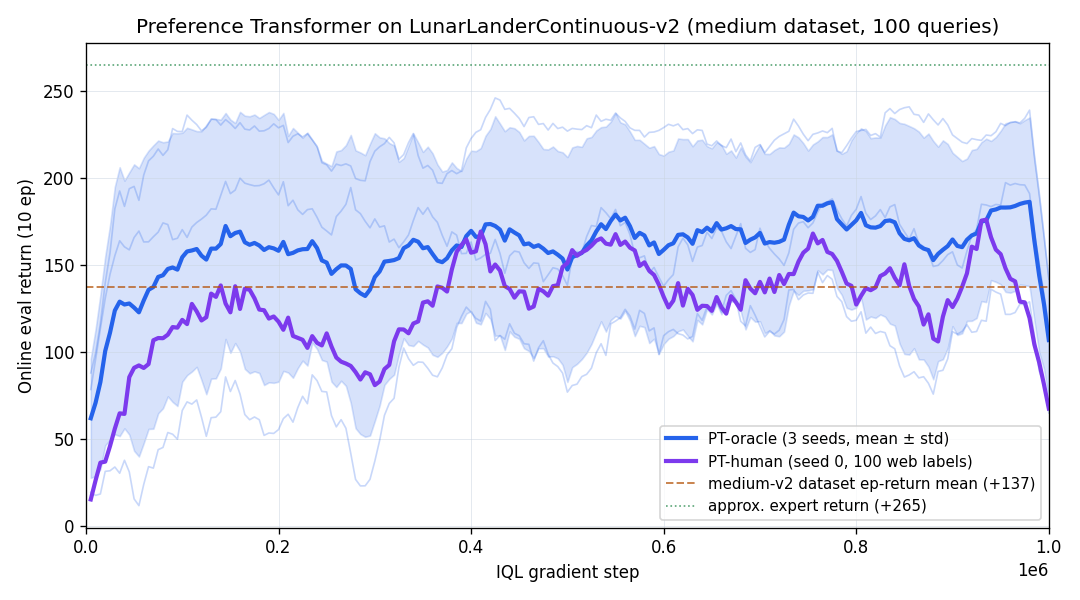
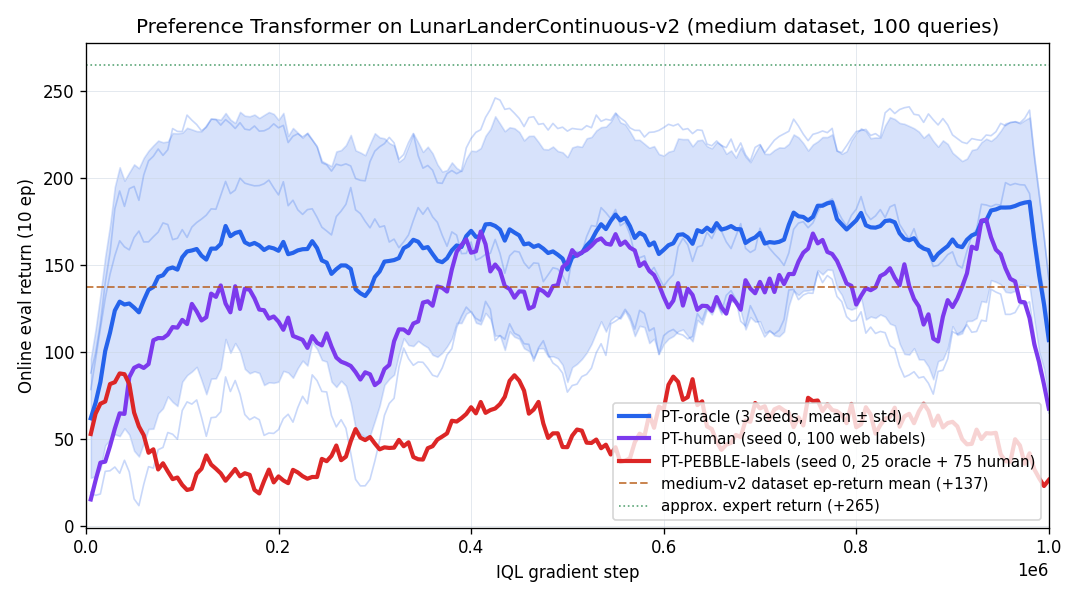
runs C: PT-pipeline trained on PEBBLE's 100 preference labels
scripts/preference/build_pebble_pt_dataset.py
- Extract the 100 (seg1, seg2, label) tuples from
  $SCRATCH/compare_runs/pebble/lunarlander_web_full/4895573/seed_12345/pebble/
  checkpoint.pt's reward.pref_buffer (needs omegaconf<2 to read).
- First 25 entries are oracle teacher, next 75 are human web labels
  (verified by cross-check vs online_queries/batch_*/response.pkl).
- Convert label convention 0.0/1.0 -> 0/1 (PT), -1 reserved for ties
  (no ties in this run).
- Pack 200 segments as length-51 trajectories in a synthetic D4RL-schema
  HDF5 (length-51 so PT's `assert max(trj_len) > query_len` passes for
  query_len=50). Write indices_num100_q50, indices_2_num100_q50,
  label_human into human_label/lunarlander-pebble100-s0/.
- Provenance JSON written next to the HDF5 (NOT inside human_label/
  because PT's loader hard-codes sorted-os.listdir-into-3 destructuring).

scripts/run_pt_pipeline_pebble_labels.sh
- Stage 1: PT reward training on the synthetic HDF5, --query_len=50
  (matches PEBBLE), --use_human_label=True, --n_epochs=2000.
- Stage 2: train_offline.py with PT relabel on the lunar-lander
  medium-v2-s0 1M HDF5 (option C — matches Runs A/B for plotting,
  with distribution-shift caveat acknowledged).
- Job 4926901 COMPLETED in 52:07.

human_label/lunarlander-pebble100-s0/
- Materialised label triple (100 labels: 46 A-pref, 54 B-pref, 0 ties).

scripts/plot_runs_a_vs_b.py + figures/pt_iql_lunarlander_medium_v2.png
- Extended to overlay Run C against Runs A/B.
[…]

diff --git a/scripts/preference/build_pebble_pt_dataset.py b/scripts/preference/build_pebble_pt_dataset.py
@@ -1,0 +1,191 @@
+"""Convert the 100 (25 oracle + 75 human) PEBBLE labels stored in a BPref3
+checkpoint into the file layout the PT pipeline already understands —
+no PT-side code changes.
+
+Inputs:
+    The PEBBLE checkpoint at
+      `<pebble_run>/seed_<S>/pebble/checkpoint.pt`
+    contains a `reward.pref_buffer` dict with:
+        seg1, seg2  float32 (BUFFER, 50, 10)   = obs(8) + action(2), padded
+        label       float32 (BUFFER, 1)        in {0.0=A pref, 1.0=B pref}
+        len1, len2  int32   (BUFFER,)          true segment length (always 50 here)
+        index       int                        # of populated entries
+
+Outputs (per seed):
+    <output_root>/<env_tag>.hdf5     A synthetic D4RL-schema dataset where each
+                                      saved segment occupies a contiguous 51-step
+                                      span (50 real steps + 1 dummy terminal so
+                                      PT's assert max(trj_len) > query_len passes).
+    human_label/<env_tag>/
+        indices_num100_q50           pickled np.int32 (100,)  start of seg-A
+        indices_2_num100_q50         pickled np.int32 (100,)  start of seg-B
+        label_human                  pickled list[int] in {0,1,-1}  PT convention
+        provenance.json              source = "oracle" for first 25, "human" for rest
+
+PT's `load_queries_with_indices` already handles this exact layout (it slices
+`dataset[start:start+query_len]` for each pair), so the only flags we change
+in `new_preference_reward_main.py` invocation are `--query_len=50` and
+`--num_query=100`.
+"""
+
+from __future__ import annotations
+
+import argparse
+import json
+import os
+import pickle
+from pathlib import Path
+
+import h5py
+import numpy as np
+
+
+def parse_args() -> argparse.Namespace:
+    p = argparse.ArgumentParser(description=__doc__, formatter_class=argparse.RawDescriptionHelpFormatter)
+    p.add_argument("--pebble_checkpoint", required=True, type=Path,
+                   help="Path to BPref3 PEBBLE checkpoint.pt")
+    p.add_argument("--n_pairs", type=int, default=100)
+    p.add_argument("--n_oracle", type=int, default=25,
+                   help="First N pairs are tagged oracle in provenance.json")
+    p.add_argument("--query_len", type=int, default=50)
+    p.add_argument("--env_tag", default="lunarlander-pebble100-s0",
+                   help="Used as both the synthetic-HDF5 basename and the "
+                        "human_label/<env_tag>/ subdir name.")
+    p.add_argument("--hdf5_out_dir", required=True, type=Path,
+                   help="Directory to write the synthetic HDF5 into.")
+    p.add_argument("--label_out_root", default=Path("human_label"), type=Path,
+                   help="Root for human_label/<env_tag>/.")
+    return p.parse_args()
+
+
+def load_pebble_pref_buffer(ckpt_path: Path, n: int):
+    """Return (seg1, seg2, label) sliced to the first `n` entries."""
+    import torch
+    ck = torch.load(ckpt_path, map_location="cpu", weights_only=False)
+    pb = ck["reward"]["pref_buffer"]
+    seg1 = np.asarray(pb["seg1"])[:n]
+    seg2 = np.asarray(pb["seg2"])[:n]
+    lbls = np.asarray(pb["label"])[:n].flatten()
+    return seg1, seg2, lbls
+
+
+def main() -> None:
+    args = parse_args()
+
+    seg1, seg2, raw_labels = load_pebble_pref_buffer(args.pebble_checkpoint, args.n_pairs)
+    assert seg1.shape == (args.n_pairs, args.query_len, 10), (
+        f"unexpected segment shape {seg1.shape}; expected ({args.n_pairs}, {args.query_len}, 10)"
+    )
+    obs_dim, act_dim = 8, 2
+
+    # ---- 1. Label-convention conversion --------------------------------------
+    # PEBBLE: 0.0 = A preferred, 1.0 = B preferred (no ties in this run).
+    # PT:     0   = A preferred, 1   = B preferred, -1 = tie.
+    # The two conventions agree on 0 and 1; ties become -1 if any exist.
+    pt_labels: list[int] = []
+    for lf in raw_labels:
+        if lf == 0.0:
+            pt_labels.append(0)
+        elif lf == 1.0:
+            pt_labels.append(1)
+        else:
+            pt_labels.append(-1)  # treat anything else as tie
+    n_oracle = args.n_oracle
+    print(f"[labels] {len(pt_labels)} pairs  "
+          f"counts: A-pref={pt_labels.count(0)}  B-pref={pt_labels.count(1)}  tie={pt_labels.count(-1)}")
+    print(f"[labels] first {n_oracle} tagged oracle, last {len(pt_labels)-n_oracle} tagged human")
+
+    # ---- 2. Synthetic HDF5 ---------------------------------------------------
+    # Pack 100 pairs * 2 segments = 200 segments. Each segment occupies a
+    # length-(query_len+1) trajectory so that max(trj_len) > query_len, which
+    # is required by JaxPref/reward_transform.py:load_queries_with_indices.
+    # Layout:
+    #     [seg_A_0  pad   seg_B_0  pad   seg_A_1  pad   ...]
+    #         |<--+51-->|     |<--+51-->|
+    # indices_1[k] = (2k)   * (query_len + 1)
+    # indices_2[k] = (2k+1) * (query_len + 1)
+    seg_block = args.query_len + 1                                # 51
+    N = args.n_pairs * 2 * seg_block                              # 100*2*51 = 10200
+
+    obs = np.zeros((N, obs_dim), dtype=np.float32)
+    act = np.zeros((N, act_dim), dtype=np.float32)
+    nxt = np.zeros((N, obs_dim), dtype=np.float32)
+    rew = np.zeros((N,), dtype=np.float32)
+    terms = np.zeros((N,), dtype=bool)
+    times = np.zeros((N,), dtype=bool)
+
+    indices_1 = np.zeros(args.n_pairs, dtype=np.int32)
+    indices_2 = np.zeros(args.n_pairs, dtype=np.int32)
+
+    for k in range(args.n_pairs):
+        for which, sa in (("A", seg1[k]), ("B", seg2[k])):
+            traj_start = (2 * k + (0 if which == "A" else 1)) * seg_block
+            seg_end_exclusive = traj_start + args.query_len      # 50 real steps
+            # Real frames
+            obs[traj_start:seg_end_exclusive] = sa[:, :obs_dim]
+            act[traj_start:seg_end_exclusive] = sa[:, obs_dim:obs_dim + act_dim]
+            # next_observations: shift obs forward by 1 within the segment;
+            # last step's next_obs = last obs (boundary).
+            nxt[traj_start:seg_end_exclusive - 1] = sa[1:, :obs_dim]
+            nxt[seg_end_exclusive - 1] = sa[-1, :obs_dim]
+            # Dummy pad transition that carries the trajectory terminal.
+            obs[seg_end_exclusive] = sa[-1, :obs_dim]
+            nxt[seg_end_exclusive] = sa[-1, :obs_dim]
+            terms[seg_end_exclusive] = True
+            # rewards stay zero — PT in --use_human_label=True mode uses
+            # `label_human` rather than reward sums for the labels.
+            if which == "A":
+                indices_1[k] = traj_start
+            else:
+                indices_2[k] = traj_start
+
+    hdf5_path = args.hdf5_out_dir / f"{args.env_tag}.hdf5"
+    args.hdf5_out_dir.mkdir(parents=True, exist_ok=True)
+    print(f"[hdf5] writing N={N} transitions across {args.n_pairs*2} length-{seg_block} trajectories → {hdf5_path}")
+    with h5py.File(hdf5_path, "w") as f:
+        f.create_dataset("observations",      data=obs,   compression="gzip")
+        f.create_dataset("actions",           data=act,   compression="gzip")
+        f.create_dataset("rewards",           data=rew,   compression="gzip")
+        f.create_dataset("next_observations", data=nxt,   compression="gzip")
+        f.create_dataset("terminals",         data=terms, compression="gzip")
+        f.create_dataset("timeouts",          data=times, compression="gzip")
+        f.attrs["source"]   = str(args.pebble_checkpoint)
+        f.attrs["n_pairs"]  = args.n_pairs
+        f.attrs["query_len"] = args.query_len
+        f.attrs["seg_block"] = seg_block
+
+    # ---- 3. PT-style label / indices files -----------------------------------
+    label_dir = args.label_out_root / args.env_tag
+    label_dir.mkdir(parents=True, exist_ok=True)
+    fn1 = label_dir / f"indices_num{args.n_pairs}_q{args.query_len}"
+    fn2 = label_dir / f"indices_2_num{args.n_pairs}_q{args.query_len}"
+    fl  = label_dir / "label_human"
+    with open(fn1, "wb") as g: pickle.dump(indices_1, g)
+    with open(fn2, "wb") as g: pickle.dump(indices_2, g)
+    with open(fl,  "wb") as g: pickle.dump(pt_labels, g)
+    provenance = dict(
+        source=str(args.pebble_checkpoint),
+        env_tag=args.env_tag,
+        n_pairs=args.n_pairs,
+        query_len=args.query_len,
+        per_pair_source=(["oracle"] * args.n_oracle
+                         + ["human"] * (args.n_pairs - args.n_oracle)),
+        counts=dict(
+            A_pref=pt_labels.count(0),
+            B_pref=pt_labels.count(1),
+            tie=pt_labels.count(-1),
+        ),
+        hdf5=str(hdf5_path),
+    )
+    # Provenance lives next to the HDF5 (NOT inside label_dir), because PT's
+    # loader hard-codes `sorted(os.listdir(base_path))` to unpack into exactly
+    # 3 filenames — any 4th entry breaks the destructuring.
+    prov_path = args.hdf5_out_dir / f"{args.env_tag}.provenance.json"
+    with open(prov_path, "w") as g:
+        json.dump(provenance, g, indent=2)
+    print(f"[labels] wrote {fn1.name}, {fn2.name}, label_human → {label_dir}")
+    print(f"[labels] wrote provenance.json → {prov_path}")
+
+
+if __name__ == "__main__":
+    main()

diff --git a/scripts/plot_runs_a_vs_b.py b/scripts/plot_runs_a_vs_b.py
@@ -15,6 +15,7 @@ import numpy as np
 SCRATCH = Path(os.environ.get("SCRATCH", "/scratch/marzii"))
 ORACLE_BASE = SCRATCH / "PT/lunarlander/iql_runs/oracle100"
 HUMAN_BASE = SCRATCH / "PT/lunarlander/iql_runs/human100"
+PEBBLE_BASE = SCRATCH / "PT/lunarlander/iql_runs/pebble100"
 OUT = Path("/home/marzii/PT/PreferenceTransformer/figures/pt_iql_lunarlander_medium_v2.png")
 OUT.parent.mkdir(parents=True, exist_ok=True)
 
@@ -27,11 +28,9 @@ def find_progress(base: Path, patterns: list[str]) -> Path | None:
     return None
 
 
-def load(seed_dir: Path, run_tag: str, comment: str) -> tuple[np.ndarray, np.ndarray]:
-    pat = (
-        f"tb/lunarlander-medium-v2-{run_tag}/reward_True_PrefTransformer/{comment}/"
-        f"{seed_dir.name.split('_')[1]}/*/progress.txt"
-    )
+def load(seed_dir: Path, env_tag: str, comment: str) -> tuple[np.ndarray, np.ndarray]:
+    seed_num = seed_dir.name.split('_')[1]
+    pat = f"tb/{env_tag}/reward_True_PrefTransformer/{comment}/{seed_num}/*/progress.txt"
     p = find_progress(seed_dir, [pat])
     if p is None:
         raise FileNotFoundError(f"no progress.txt under {seed_dir} matching {pat}")
@@ -54,7 +53,7 @@ oracle_curves = []
 common_x = None
 for s in (0, 1, 2):
     seed_dir = ORACLE_BASE / f"seed_{s}"
-    x, y = load(seed_dir, run_tag=f"oracle-s{s}", comment="oracle100")
+    x, y = load(seed_dir, env_tag=f"lunarlander-medium-v2-oracle-s{s}", comment="oracle100")
     oracle_curves.append(y)
     if common_x is None:
         common_x = x
@@ -69,9 +68,15 @@ ax.plot(common_x, mean, color="#2563eb", lw=2.5,
 
 # --- Run B: 1 human seed -----------------------------------------------------
 seed_dir = HUMAN_BASE / "seed_0"
-xh, yh = load(seed_dir, run_tag="human-s0", comment="human100")
+xh, yh = load(seed_dir, env_tag="lunarlander-medium-v2-human-s0", comment="human100")
 ax.plot(xh, smooth(yh), color="#7c3aed", lw=2.5,
         label="PT-human (seed 0, 100 web labels)")
+
+# --- Run C: 1 seed, PT trained on PEBBLE's 100 labels ------------------------
+seed_dir = PEBBLE_BASE / "seed_0"
+xp, yp = load(seed_dir, env_tag="lunarlander-pebble100-s0", comment="pebble100")
+ax.plot(xp, smooth(yp), color="#dc2626", lw=2.5,
+        label="PT-PEBBLE-labels (seed 0, 25 oracle + 75 human)")
 
 # --- Annotations -------------------------------------------------------------
 ax.axhline(137.0, color="#b45309", lw=1.2, ls="--", alpha=0.7,
